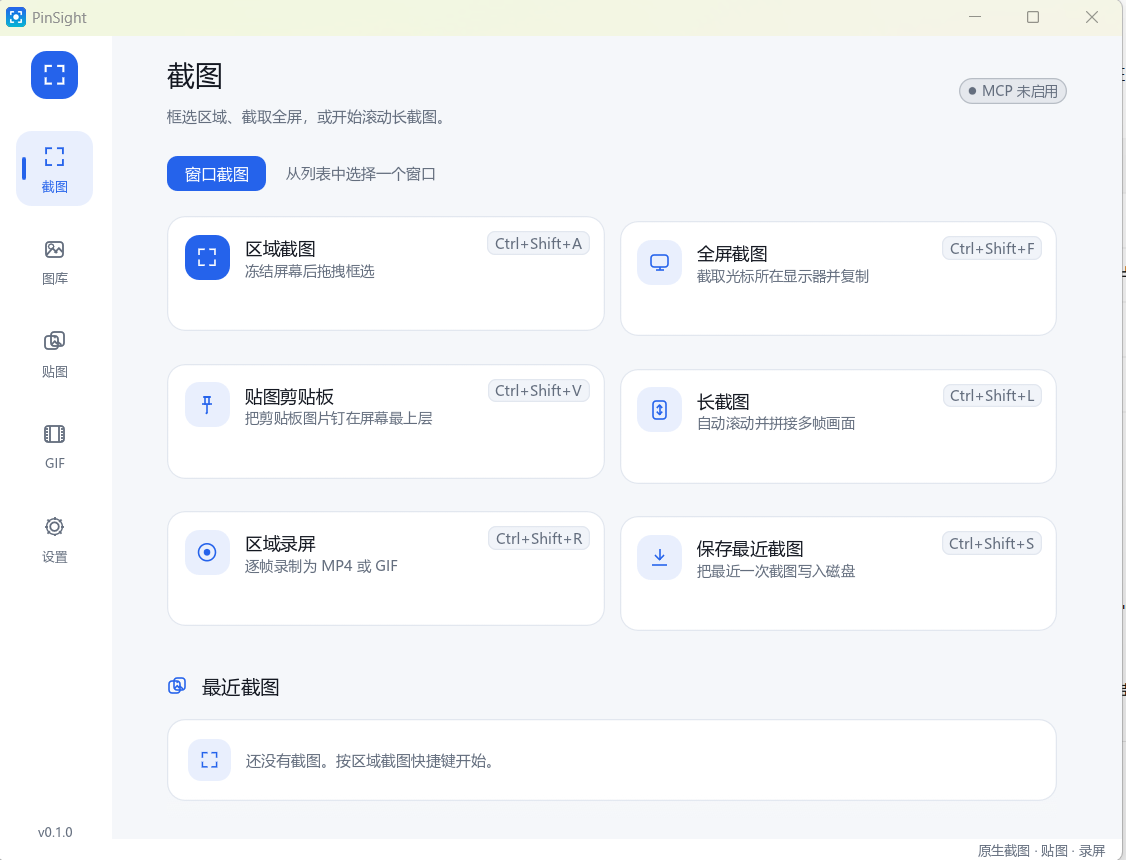
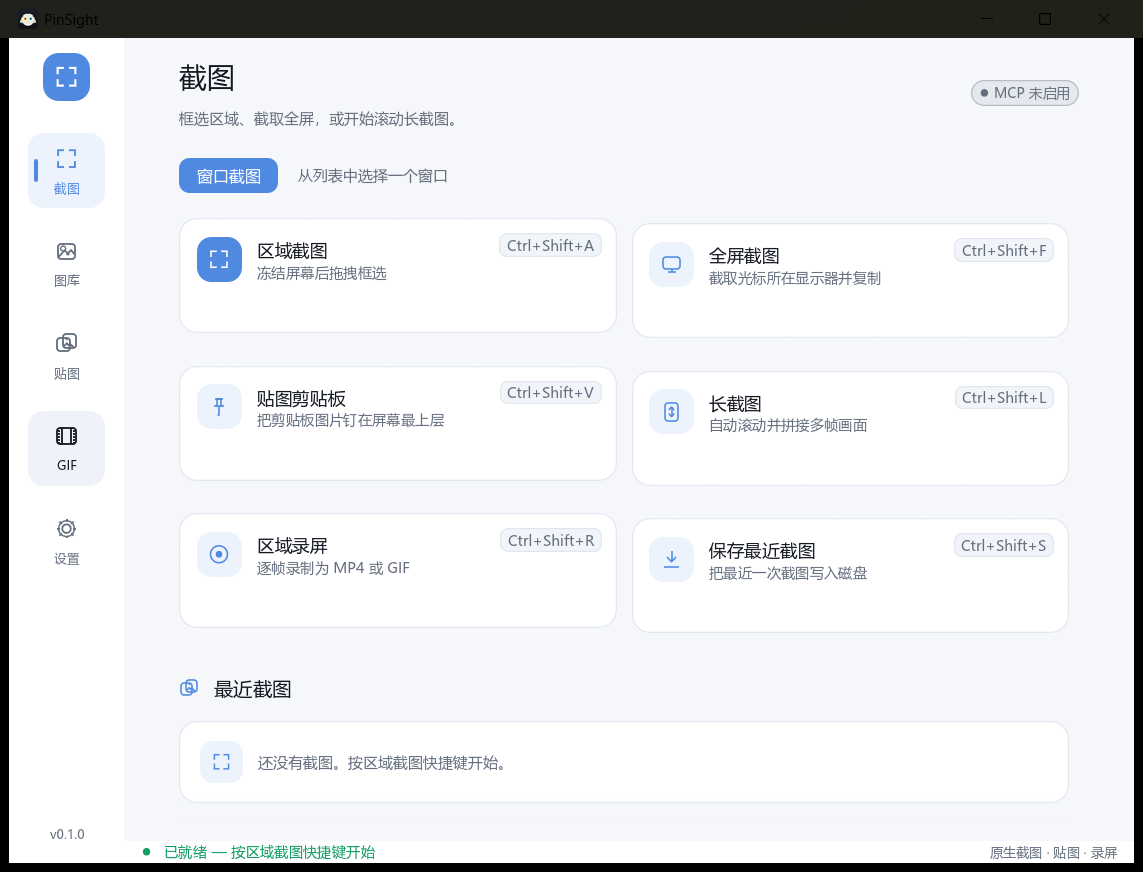
docs: refresh gallery screenshots to current UI; fix overlay.rs formatting

diff --git a/src/overlay.rs b/src/overlay.rs
@@ -1070,7 +1070,11 @@ impl CaptureSession {
             // accent iris
             ui.painter().circle_filled(c, ring_r - 2.2, accent);
             // dark pupil
-            ui.painter().circle_filled(c, (ring_r - 2.2) * 0.42, egui::Color32::from_rgb(16, 18, 24));
+            ui.painter().circle_filled(
+                c,
+                (ring_r - 2.2) * 0.42,
+                egui::Color32::from_rgb(16, 18, 24),
+            );
         }
         // Edge midpoints stay small square handles.
         for point in edge_points {
